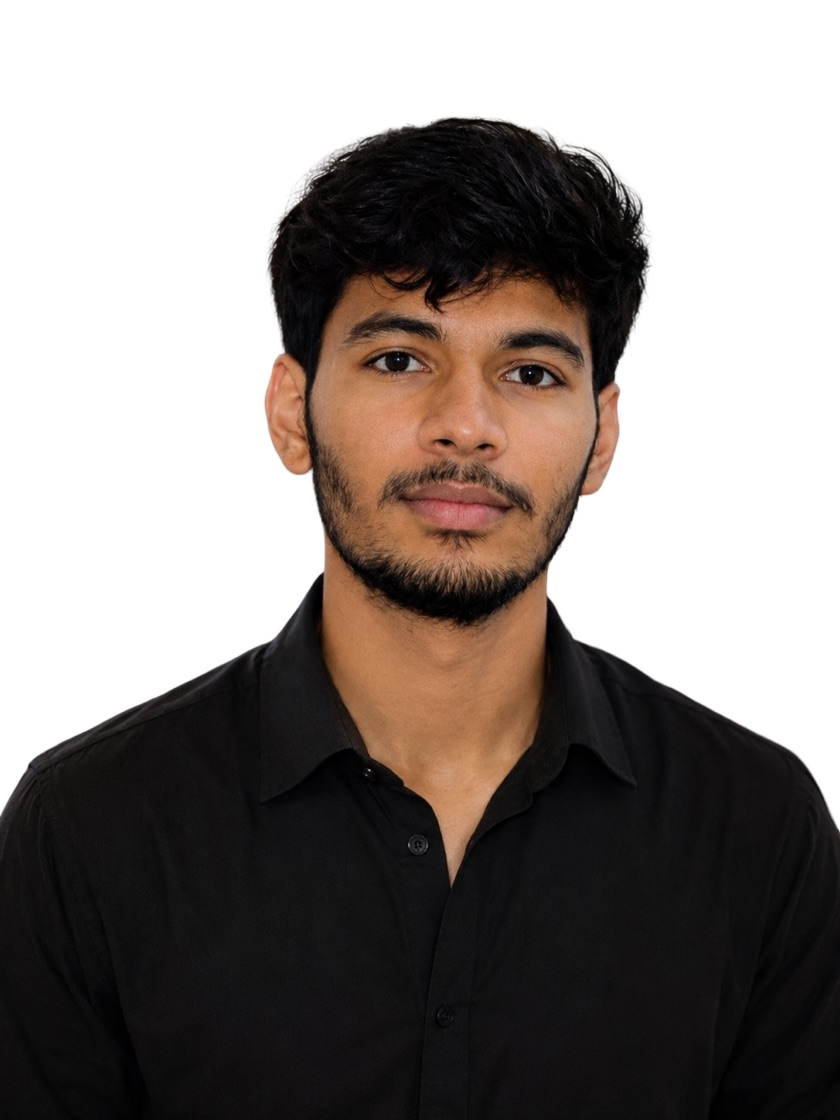
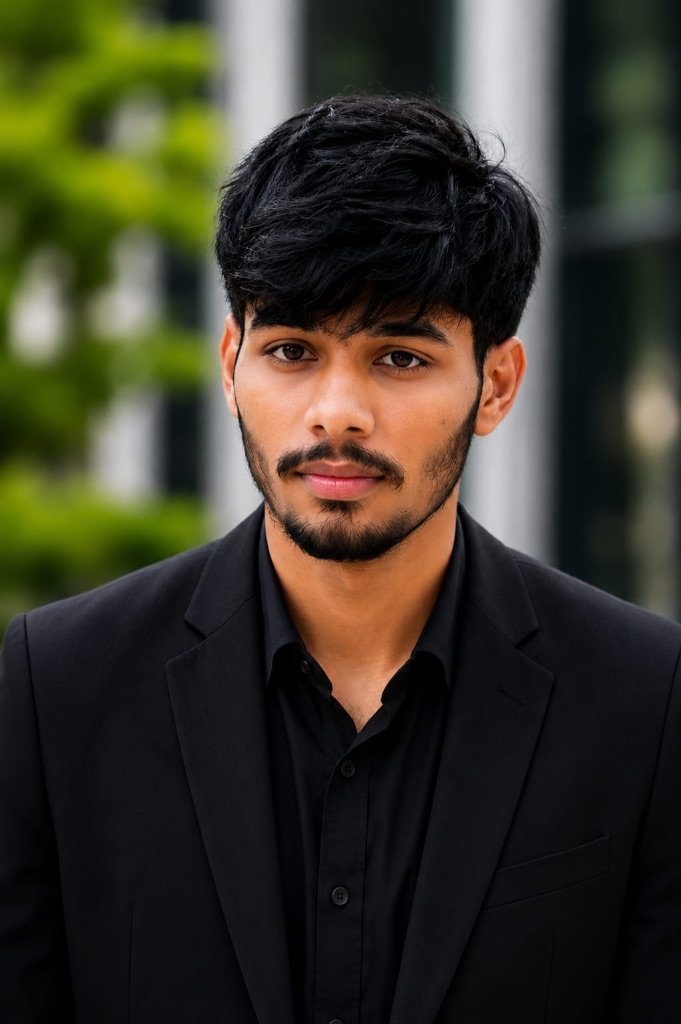
fix: gallery — only real photos, no screenshots, no duplicates; hero updated to today's portrait

diff --git a/src/pages/GalleryPage.tsx b/src/pages/GalleryPage.tsx
@@ -9,79 +9,55 @@ interface GalleryPhoto {
   alt: string;
   caption: string;
   location: string;
-  span?: 'normal' | 'wide' | 'tall';
 }
 
+// Only real photos — 4 executive portraits uploaded today + 4 conference location shots
 const PHOTOS: GalleryPhoto[] = [
-  // User-uploaded conference & portrait images (Bangalore + Delhi)
   {
     src: '/images/gallery/vishnu/media_1786612562943.jpg',
     alt: 'Vishnu Vardhan Burri — Bangalore Electronic City IT Tech Center',
     caption: 'Bangalore Electronic City IT Tech Center',
     location: 'Bangalore, KA',
-    span: 'tall',
   },
   {
     src: '/images/gallery/vishnu/media_1786612568431.jpg',
-    alt: 'Vishnu Vardhan Burri — Company technical discussion, Bangalore',
-    caption: 'Technical Discussion — XAVIRA Technologies',
+    alt: 'Vishnu Vardhan Burri — Technical Leadership, Bangalore',
+    caption: 'Technical Leadership, Bangalore',
     location: 'Bangalore, KA',
   },
   {
     src: '/images/gallery/vishnu/media_1786612574004.jpg',
-    alt: 'Vishnu Vardhan Burri — Engineering leadership, Bangalore',
-    caption: 'Engineering Leadership Meeting',
-    location: 'Bangalore, KA',
+    alt: 'Vishnu Vardhan Burri — Delhi Security Summit',
+    caption: 'Delhi Cybersecurity & AI Summit',
+    location: 'New Delhi, DL',
   },
   {
     src: '/images/gallery/vishnu/media_1786612587512.jpg',
-    alt: 'Vishnu Vardhan Burri — Delhi Security Summit',
-    caption: 'Delhi Cybersecurity Summit',
-    location: 'New Delhi, DL',
-    span: 'tall',
-  },
-  {
-    src: '/images/gallery/vishnu/media_1786612049470.jpg',
-    alt: 'Vishnu Vardhan Burri — Executive portrait, Delhi Tech Forum',
+    alt: 'Vishnu Vardhan Burri — Delhi Technical Leadership Forum',
     caption: 'Delhi Technical Leadership Forum',
     location: 'New Delhi, DL',
   },
   {
-    src: '/images/gallery/vishnu/media_1786612056207.jpg',
-    alt: 'Vishnu Vardhan Burri — Professional portrait',
-    caption: 'XAVIRA Technologies — Executive Portrait',
-    location: 'Bangalore, KA',
-  },
-  {
-    src: '/images/gallery/vishnu/media_1786612062921.jpg',
-    alt: 'Vishnu Vardhan Burri — Professional portrait, blue suit',
-    caption: 'Professional Portrait 2026',
-    location: 'Bangalore, KA',
-    span: 'wide',
-  },
-  // Executive portraits from public/images/executive
-  {
     src: '/images/executive/electronic-city-conference-vishnu-vardhan-burri.jpg',
-    alt: 'Vishnu Vardhan Burri — Electronic City Conference, Bangalore',
+    alt: 'Vishnu Vardhan Burri presenting at Bangalore Electronic City IT Tech Center',
     caption: 'Electronic City IT Tech Center',
     location: 'Bangalore, KA',
   },
   {
     src: '/images/executive/bangalore-tech-summit-vishnu-vardhan-burri.jpg',
-    alt: 'Vishnu Vardhan Burri — Bangalore Tech Summit',
+    alt: 'Vishnu Vardhan Burri at Bangalore Tech Summit',
     caption: 'Bangalore Tech Company Meeting',
     location: 'Bangalore, KA',
   },
   {
     src: '/images/executive/delhi-security-summit-vishnu-vardhan-burri.jpg',
-    alt: 'Vishnu Vardhan Burri — Delhi AI & Security Summit',
+    alt: 'Vishnu Vardhan Burri at Delhi AI & Security Summit',
     caption: 'AI Governance & Security Summit',
     location: 'New Delhi, DL',
-    span: 'tall',
   },
   {
     src: '/images/executive/delhi-tech-conference-vishnu-vardhan-burri.jpg',
-    alt: 'Vishnu Vardhan Burri — Delhi Tech Conference',
+    alt: 'Vishnu Vardhan Burri at Delhi Tech Conference',
     caption: 'Delhi Technical Leadership Panel',
     location: 'New Delhi, DL',
   },
@@ -91,8 +67,8 @@ export function GalleryPage() {
   usePageMeta({
     title: 'Gallery | Vishnu Vardhan Burri | XAVIRA Technologies',
     description:
-      'Executive presence gallery — company meetings, technical discussions and security conferences at Bangalore Electronic City IT Tech Center and Delhi. Vishnu Vardhan Burri, Director & CEO of XAVIRA Technologies.',
-    image: '/images/gallery/vishnu/media_1786612562943.jpg',
+      'Company meetings, technical discussions and security conferences at Bangalore Electronic City IT Tech Center and Delhi. Vishnu Vardhan Burri, Director & CEO of XAVIRA Technologies.',
+    image: '/images/gallery/vishnu/media_1786612574004.jpg',
   });
 
   const [lightbox, setLightbox] = useState<GalleryPhoto | null>(null);
@@ -107,7 +83,6 @@ export function GalleryPage() {
         >
           <ArrowLeft size={12} /> Back
         </Link>
-
         <h1 className="text-3xl font-bold italic tracking-tighter text-white sm:text-5xl">
           Gallery
         </h1>
@@ -118,43 +93,41 @@ export function GalleryPage() {
 
       {/* Masonry Grid */}
       <div className="px-5 pb-24 sm:px-6 lg:px-12 max-w-7xl mx-auto">
-        <div className="columns-2 md:columns-3 lg:columns-4 gap-3 space-y-3">
+        <div className="columns-2 md:columns-3 lg:columns-4 gap-3 [column-gap:0.75rem]">
           {PHOTOS.map((photo, i) => (
             <motion.div
               key={i}
               initial={{ opacity: 0, y: 12 }}
               animate={{ opacity: 1, y: 0 }}
-              transition={{ duration: 0.35, delay: i * 0.04 }}
-              className={`group relative break-inside-avoid cursor-pointer overflow-hidden rounded-2xl bg-zinc-900 ${
-                photo.span === 'tall' ? 'row-span-2' : ''
-              }`}
+              transition={{ duration: 0.35, delay: i * 0.05 }}
+              className="group relative mb-3 break-inside-avoid cursor-pointer overflow-hidden rounded-2xl bg-zinc-900"
               onClick={() => setLightbox(photo)}
             >
               <img
                 src={photo.src}
                 alt={photo.alt}
-                loading="lazy"
+                loading={i < 4 ? 'eager' : 'lazy'}
                 decoding="async"
                 className="w-full object-cover transition-transform duration-500 group-hover:scale-105"
               />
 
-              {/* Hover overlay with minimal caption */}
-              <div className="absolute inset-0 bg-gradient-to-t from-black/80 via-transparent to-transparent opacity-0 group-hover:opacity-100 transition-opacity duration-300 flex flex-col justify-end p-4">
-                <div className="flex items-center gap-1.5 mb-1">
-                  <MapPin size={10} className="text-blue-400 shrink-0" />
-                  <span className="font-mono text-[9px] uppercase tracking-widest text-blue-300">
+              {/* Hover overlay — minimal caption */}
+              <div className="absolute inset-0 bg-gradient-to-t from-black/75 via-transparent to-transparent opacity-0 group-hover:opacity-100 transition-opacity duration-300 flex flex-col justify-end p-3">
+                <div className="flex items-center gap-1 mb-0.5">
+                  <MapPin size={9} className="text-blue-400 shrink-0" />
+                  <span className="font-mono text-[8px] uppercase tracking-widest text-blue-300">
                     {photo.location}
                   </span>
                 </div>
-                <p className="font-mono text-[11px] font-bold text-white leading-snug">
+                <p className="font-mono text-[10px] font-bold text-white leading-snug">
                   {photo.caption}
                 </p>
               </div>
 
               {/* Zoom icon */}
-              <div className="absolute top-3 right-3 opacity-0 group-hover:opacity-100 transition-opacity duration-300">
+              <div className="absolute top-2 right-2 opacity-0 group-hover:opacity-100 transition-opacity duration-300">
                 <div className="rounded-full bg-black/60 p-1.5 backdrop-blur-sm">
-                  <ZoomIn size={12} className="text-white" />
+                  <ZoomIn size={11} className="text-white" />
                 </div>
               </div>
             </motion.div>
@@ -178,29 +151,25 @@ export function GalleryPage() {
               animate={{ scale: 1, opacity: 1 }}
               exit={{ scale: 0.94, opacity: 0 }}
               transition={{ type: 'spring', stiffness: 360, damping: 30 }}
-              className="relative max-w-3xl w-full"
+              className="relative max-w-2xl w-full"
               onClick={(e) => e.stopPropagation()}
             >
               <button
                 onClick={() => setLightbox(null)}
-                className="absolute -top-10 right-0 flex items-center gap-2 font-mono text-[10px] uppercase tracking-widest text-zinc-400 hover:text-white transition-colors"
+                className="absolute -top-9 right-0 flex items-center gap-2 font-mono text-[10px] uppercase tracking-widest text-zinc-400 hover:text-white transition-colors"
               >
-                <X size={14} /> Close
+                <X size={13} /> Close
               </button>
-
               <img
                 src={lightbox.src}
                 alt={lightbox.alt}
                 className="w-full rounded-2xl object-contain max-h-[80vh]"
               />
-
-              <div className="mt-4 flex items-center gap-3">
-                <div className="flex items-center gap-1.5">
-                  <MapPin size={11} className="text-blue-400" />
-                  <span className="font-mono text-[10px] uppercase tracking-widest text-blue-400">
-                    {lightbox.location}
-                  </span>
-                </div>
+              <div className="mt-3 flex items-center gap-3">
+                <MapPin size={11} className="text-blue-400 shrink-0" />
+                <span className="font-mono text-[10px] uppercase tracking-widest text-blue-400">
+                  {lightbox.location}
+                </span>
                 <span className="text-zinc-600">·</span>
                 <p className="font-mono text-xs text-zinc-300">{lightbox.caption}</p>
               </div>
